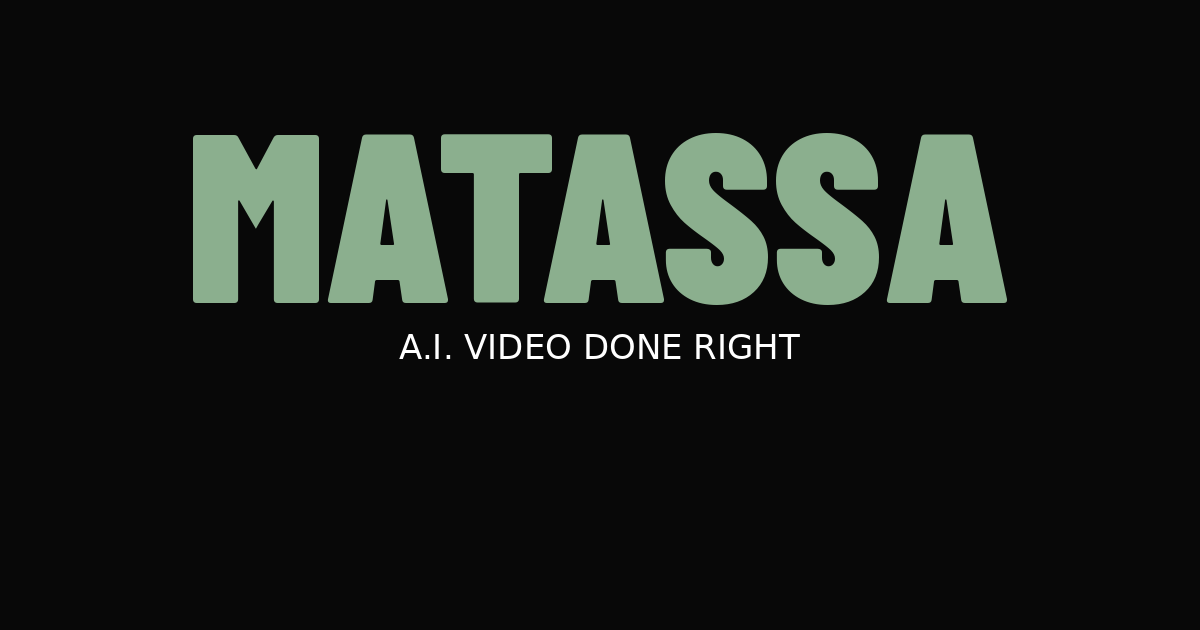
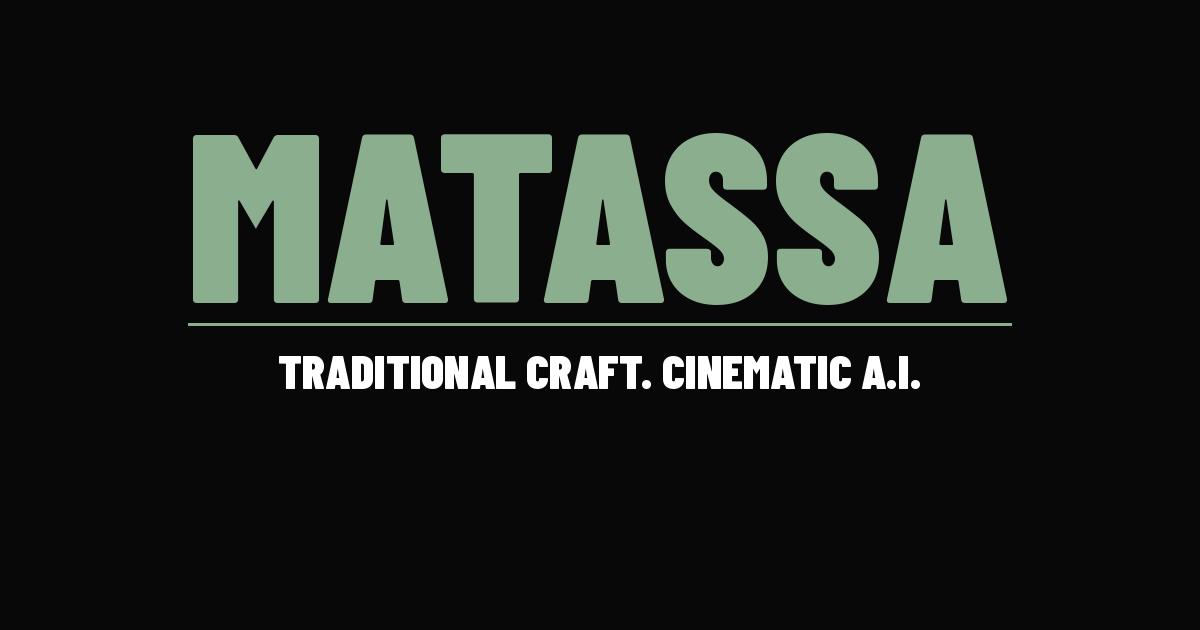
update about and tagline

Changed region(s): [[0.1542, 0.5127, 0.8325, 0.6333]]

diff --git a/index.html b/index.html
@@ -194,7 +194,7 @@
     footer { flex-direction: column; text-align: center; padding: 2rem 1.5rem; }
   }
 </style>
-  <meta property="og:title" content="MATASSA — A.I. Video Done Right" />
+  <meta property="og:title" content="MATASSA — Traditional Craft. Cinematic A.I." />
   <meta property="og:description" content="The world's most experienced A.I. video shop. 36 years of traditional craft. Super Bowl spots. National TV. Social. Brand films. A.I. — done right." />
   <meta property="og:image" content="https://matassa.com/matassa-og.png" />
   <meta property="og:image:width" content="1200" />
@@ -208,7 +208,7 @@
 
 <!-- NAV -->
 <nav>
-  <a href="/" class="nav-logo"><span class="nav-logo-main">MATASSA</span><span class="nav-logo-sub">A.I. Video Done Right</span></a>
+  <a href="/" class="nav-logo"><span class="nav-logo-main">MATASSA</span><span class="nav-logo-sub">Traditional Craft. Cinematic A.I.</span></a>
   <div class="nav-right">
     <ul class="nav-links">
       <li>
@@ -423,7 +423,8 @@
         <div class="field"><label>Email</label><input type="email" id="a-email" placeholder="you@yourbrand.com" /></div>
         <div class="field"><label>Phone / Text</label><input type="text" id="a-phone" placeholder="Best number to reach you" /></div>
         <div class="field"><label>Spot Length</label>
-          <select id="a-length"><option value="">Select length</option><option>:06</option><option>:15</option><option>:30</option><option>Not sure yet</option></select>
+          <select id="a-length" onchange="document.getElementById('a-length-custom-wrap').style.display=this.value==='Custom'?'block':'none'"><option value="">Select length</option><option>:06</option><option>:15</option><option>:30</option><option>:60</option><option value="Custom">Custom length</option><option>Not sure yet</option></select>
+          <div id="a-length-custom-wrap" style="display:none; margin-top:0.5rem;"><input type="text" id="a-length-custom" placeholder="e.g. 2:00, 90 seconds..." style="width:100%; padding:0.75rem 1rem; background:#1a1a1a; border:1px solid rgba(255,255,255,0.12); color:#fff; font-family:'Epilogue',sans-serif; font-size:0.85rem;"></div>
         </div>
         <div class="field"><label>Formats Needed</label>
           <select id="a-format"><option value="">Select formats</option><option>16×9 only</option><option>9×16 only</option><option>All formats — 16×9, 9×16, 1:1</option><option>Not sure yet</option></select>

diff --git a/about.html b/about.html
@@ -293,7 +293,7 @@
 
 <!-- NAV -->
 <nav>
-  <a href="/" class="nav-logo">MATASSA<span class="nav-logo-sub">A.I. Video Done Right</span></a>
+  <a href="/" class="nav-logo">MATASSA<span class="nav-logo-sub">Traditional Craft. Cinematic A.I.</span></a>
   <div class="nav-right">
     <ul class="nav-links">
       <li>
